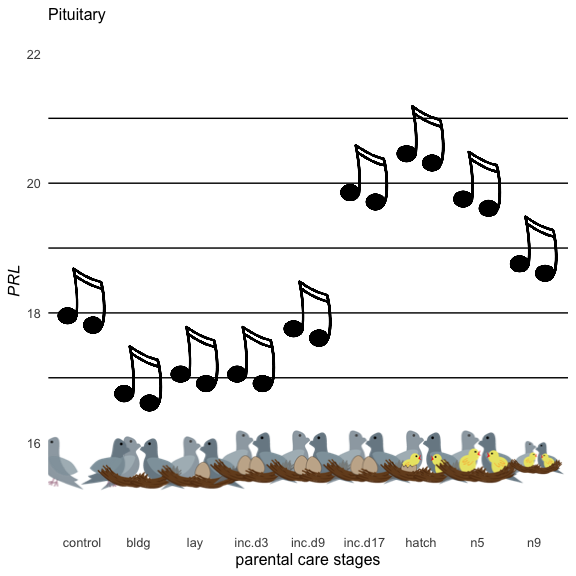
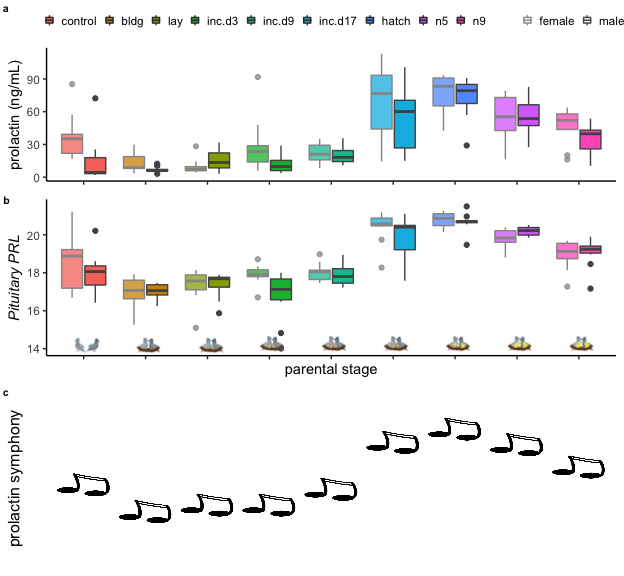
new music figure

diff --git a/analysis/16_PRL.md b/analysis/16_PRL.md
@@ -3,14 +3,14 @@ Plots with Prolactin
 
     library(tidyverse)
 
-    ## ── Attaching packages ───────────────────────────────────────────────────────────────── tidyverse 1.3.0 ──
+    ## ── Attaching packages ─────────────────────────────────────────────────────────────────────────────────────────────────────────── tidyverse 1.3.0 ──
 
     ## ✔ ggplot2 3.2.1     ✔ purrr   0.3.3
     ## ✔ tibble  2.1.3     ✔ dplyr   0.8.3
     ## ✔ tidyr   1.0.0     ✔ stringr 1.4.0
     ## ✔ readr   1.3.1     ✔ forcats 0.4.0
 
-    ## ── Conflicts ──────────────────────────────────────────────────────────────────── tidyverse_conflicts() ──
+    ## ── Conflicts ────────────────────────────────────────────────────────────────────────────────────────────────────────────── tidyverse_conflicts() ──
     ## ✖ dplyr::filter() masks stats::filter()
     ## ✖ dplyr::lag()    masks stats::lag()
 
@@ -384,12 +384,12 @@ Genes an hormones (in progress, don’t have all the bird ids lining up.)
     candidates.pit$X1 <- candidates.pit$V1
 
     geneshormones <- left_join(candidates.pit, hormones) %>%
-      select(-X1, -V1, -okay, - icons, -music, -iconpath) %>%
+      select( -V1 ) %>%
       drop_na()
 
     head(geneshormones$bird_id)
 
-    ## [1] "blk0.x"  "blk0.x"  "blk0.x"  "blk19.x" "blk19.x" "blk19.x"
+    ## [1] "blk0.x"  "blk19.x" "blk19.x" "blk19.x" "blk19.x" "blk5.x"
 
     head(hormones$bird_id)
 
@@ -421,18 +421,25 @@ Genes an hormones (in progress, don’t have all the bird ids lining up.)
 
     ##       bird    sex    tissue treatment                   group        study
     ## 21  blk0.x female pituitary      m.n2   female.pituitary.m.n2 manipulation
-    ## 22  blk0.x female pituitary      m.n2   female.pituitary.m.n2 manipulation
-    ## 23  blk0.x female pituitary      m.n2   female.pituitary.m.n2 manipulation
+    ## 25 blk19.x female pituitary    extend female.pituitary.extend manipulation
+    ## 26 blk19.x female pituitary    extend female.pituitary.extend manipulation
     ## 27 blk19.x female pituitary    extend female.pituitary.extend manipulation
     ## 28 blk19.x female pituitary    extend female.pituitary.extend manipulation
-    ## 29 blk19.x female pituitary    extend female.pituitary.extend manipulation
-    ##       BRCA1      PRL bird_id   hormone  plasma_conc
-    ## 21 7.731041 20.08465  blk0.x prolactin  15.25856000
-    ## 22 7.731041 20.08465  blk0.x      cort   4.60254912
-    ## 23 7.731041 20.08465  blk0.x estradiol   0.17274629
-    ## 27 8.020828 21.14005 blk19.x prolactin 100.68067200
-    ## 28 8.020828 21.14005 blk19.x      cort   2.53935784
-    ## 29 8.020828 21.14005 blk19.x estradiol   0.05364098
+    ## 31  blk5.x   male pituitary  m.inc.d3 male.pituitary.m.inc.d3 manipulation
+    ##       BRCA1      PRL bird_id                              X1
+    ## 21 7.731041 20.08465  blk0.x    blk0.x_female_pituitary_m.n2
+    ## 25 8.020828 21.14005 blk19.x blk19.x_female_pituitary_extend
+    ## 26 8.020828 21.14005 blk19.x blk19.x_female_pituitary_extend
+    ## 27 8.020828 21.14005 blk19.x blk19.x_female_pituitary_extend
+    ## 28 8.020828 21.14005 blk19.x blk19.x_female_pituitary_extend
+    ## 31 7.389572 17.83394  blk5.x  blk5.x_male_pituitary_m.inc.d3
+    ##           hormone  plasma_conc
+    ## 21      prolactin  15.25856000
+    ## 25      prolactin 100.68067200
+    ## 26 corticosterone   2.53948128
+    ## 27      estradiol   0.05364098
+    ## 28   progesterone   0.27174264
+    ## 31      prolactin  11.47628800
 
     ggplot(geneshormones2, aes(x = plasma_conc, y = PRL)) +
       geom_point(aes( color = treatment)) +
@@ -537,64 +544,55 @@ Prolactin hormone statistics
     meanPRL <- left_join(meanPRL, birds)
     meanPRL$treatment <- factor(meanPRL$treatment, levels = charlevels)
 
-    p8 <- ggplot(meanPRL, aes(treatment, m)) +
-       geom_image(aes(image=music), size=.12)  +
-      labs(x = "parental care stages", y = "PRL", subtitle = "Pituitary") +
-      mytheme() +
-      ylim(c(15,22)) +
-      annotation_custom(control, ymin = 15, ymax = 16.5, xmin = -7.5) +
-      annotation_custom(bldg, ymin = 15, ymax = 16.5, xmin = -5.5) +
-      annotation_custom(lay, ymin = 15, ymax = 16.5, xmin = -3.5) +
-      annotation_custom(inc, ymin = 15, ymax = 16.5, xmin = -1.5) +
-      annotation_custom(inc, ymin = 15, ymax = 16.5, xmin = 0.5) +
-      annotation_custom(inc, ymin = 15, ymax = 16.5, xmin = 2.5) +
-      annotation_custom(hatch, ymin = 15, ymax = 16.5, xmin = 4.5) +
-      annotation_custom(nestling, ymin = 15, ymax = 16.5, xmin = 6.5) +
-      annotation_custom(nestling, ymin = 15, ymax = 16.5, xmin = 8.5)   +
-      geom_hline(yintercept=17) +
-      geom_hline(yintercept=18) +
-      geom_hline(yintercept=19) +
-      geom_hline(yintercept=20) +
-      geom_hline(yintercept=21) +
-      theme(axis.title.y  = element_text(face = "italic"))
+    p1 <- hormones %>% 
+        filter(study == "characterization", hormone %in% c("prolactin"))  %>% 
+        droplevels() %>% 
+      ggplot(aes(x = treatment, y = plasma_conc)) +
+        geom_boxplot(aes(fill = treatment, alpha = sex, color = sex)) +
+        theme_B3() +
+        scale_fill_manual(values = colorscharmaip) +
+        scale_color_manual(values = sexcolors) +
+        labs(y = "prolactin (ng/mL)", x = NULL) +
+        scale_alpha_manual(values = c(0.75,1)) +
+        theme(legend.position = "top", legend.direction = "horizontal",
+              axis.title.x = element_blank(),
+              axis.text.x = element_blank(),
+              legend.title = element_blank(),
+              legend.key.size =  unit(0.25, "cm")) + 
+      labs( y = "prolactin (ng/mL)") +
+       guides(fill = guide_legend(nrow = 1)) 
 
-    p8
-
-![](../figures/PRL/music-1.png)
-
-    p9 <- ggplot(meanPRL, aes(treatment, m)) +
-       geom_image(aes(image=music), size=.12)  +
-      mytheme() +
-      ylim(c(15,22)) +
-      geom_hline(yintercept=17) +
-      geom_hline(yintercept=18) +
-      geom_hline(yintercept=19) +
-      geom_hline(yintercept=20) +
-      geom_hline(yintercept=21) +
-      theme(axis.text  = element_blank(),
-            axis.title = element_blank())
-
-    p9
-
-![](../figures/PRL/music-2.png)
-
-    p10 <- candidates.pit %>%
+    p2 <- candidates.pit %>%
       dplyr::filter(treatment %in% charlevels) %>%
       ggplot(aes(x = treatment, y = PRL)) + 
-        geom_boxplot(aes(fill = treatment)) + 
+        geom_boxplot(aes(fill = treatment, alpha = sex, color = sex)) + 
         scale_alpha_manual(values = c(0.75,1)) +
         theme_B3() +
-      theme(legend.position = c(0.85,0.2), legend.direction = "horizontal") + 
+      theme(legend.position = "none") + 
       scale_color_manual(values = c("female" = "#969696", "male" = "#525252")) +
-      labs(y = "Prolactin expression", x = "parental stage") +
-      guides(fill = FALSE, alpha = FALSE, color = guide_legend(order=1)) 
-    p10
+      labs(y = "Pituitary PRL", x = "parental stage" ) +
+      theme(axis.title.y  = element_text(face = "italic"),
+            axis.text.x = element_blank())  +
+      annotation_custom(control, ymin = 13.5, ymax = 15, xmin = -7.5) +
+      annotation_custom(bldg, ymin = 13.5, ymax = 15, xmin = -5.5) +
+      annotation_custom(lay, ymin = 13.5, ymax = 15, xmin = -3.5) +
+      annotation_custom(inc, ymin = 13.5, ymax = 15, xmin = -1.5) +
+      annotation_custom(inc, ymin = 13.5, ymax = 15, xmin = 0.5) +
+      annotation_custom(inc, ymin = 13.5, ymax = 15, xmin = 2.5) +
+      annotation_custom(hatch, ymin = 13.5, ymax = 15, xmin = 4.5) +
+      annotation_custom(nestling, ymin = 13.5, ymax = 15, xmin = 6.5) +
+      annotation_custom(nestling, ymin = 13.5, ymax = 15, xmin = 8.5) 
 
-![](../figures/PRL/music-3.png)
+    p8 <- ggplot(meanPRL, aes(treatment, m)) +
+       geom_image(aes(image=music), size=.12)  +
+      labs(x = NULL, y = "prolactin symphony") +
+      mytheme() +
+      ylim(c(15,22)) +
+      theme(axis.text = element_blank())
 
-    plot_grid(p10,p9, nrow = 2, align = "hv")
+    plot_grid(p1,p2,p8, nrow = 3, align = "hv", labels = "auto", label_size = 8)
 
-![](../figures/PRL/music-4.png)
+![](../figures/PRL/music-1.png)
 
 WGCNA candidates
 ----------------
